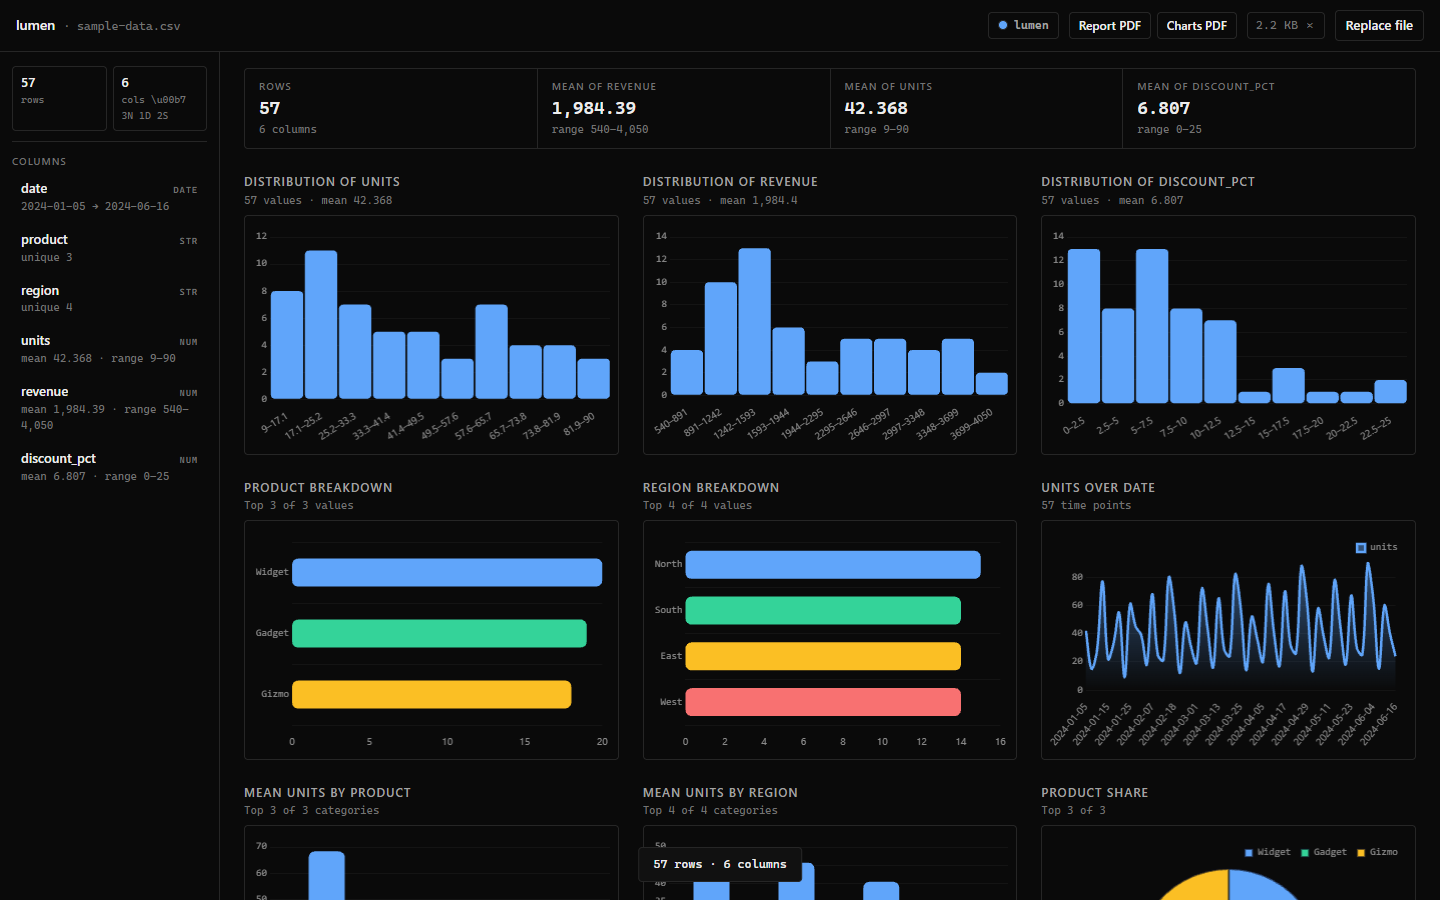
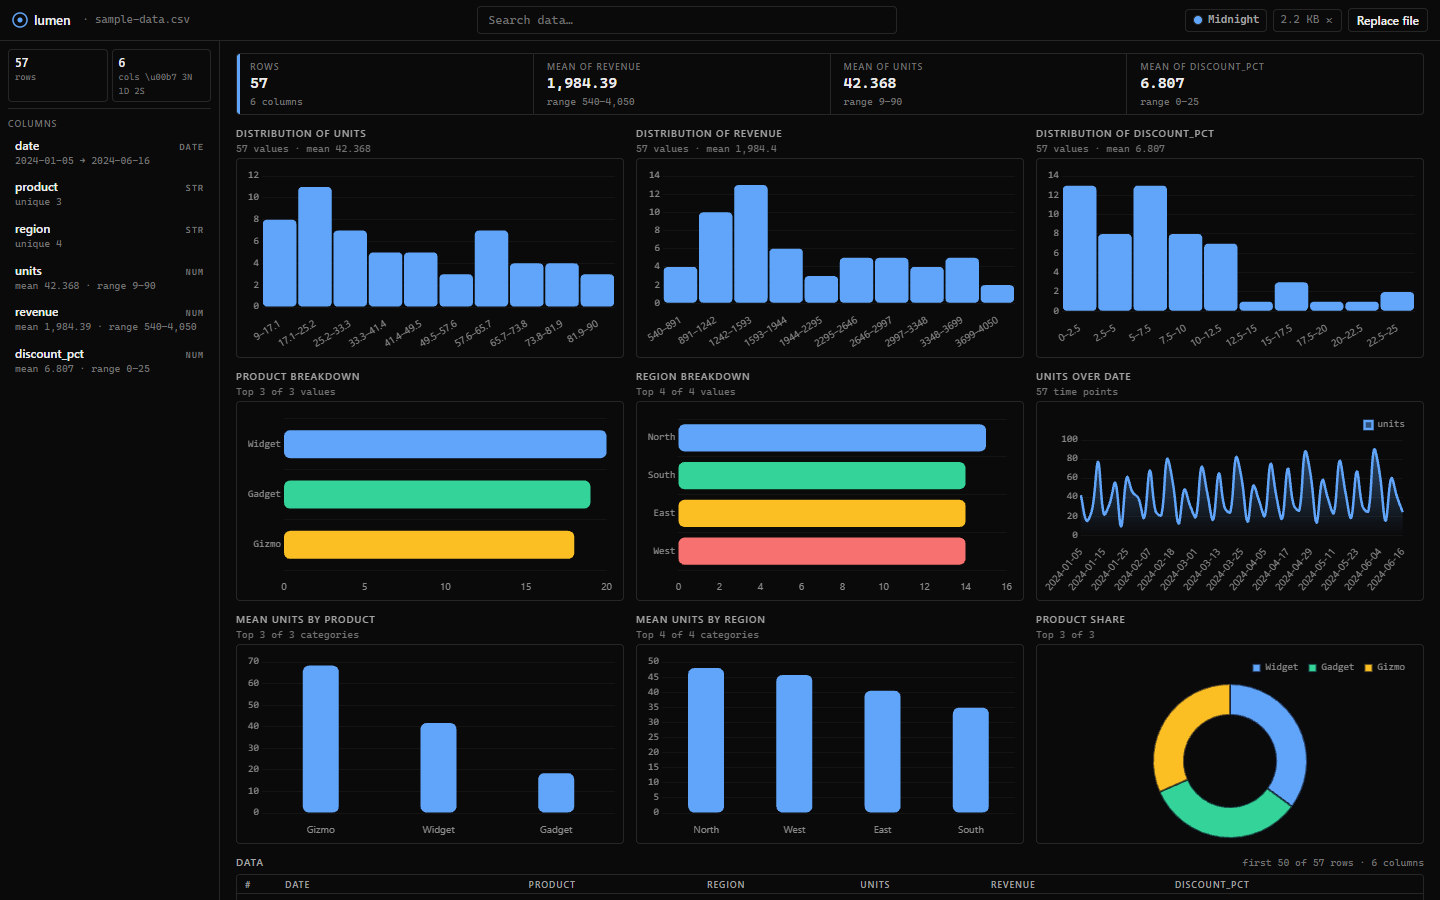
Initial commit

diff --git a/vite.config.ts b/vite.config.ts
@@ -13,12 +13,12 @@ export default defineConfig({
       registerType: 'autoUpdate',
       injectRegister: 'auto',
       manifest: {
-        name: 'Lumen — Data Dashboard',
+        name: 'Lumen — Minimal Data Dashboard',
         short_name: 'Lumen',
         description:
-          'Drop a CSV, TSV, TXT, or JSON file in and get a clean glassmorphic dashboard.',
-        theme_color: '#0b0d1a',
-        background_color: '#0b0d1a',
+          'Drop a CSV, TSV, TXT, or JSON file and explore your data with charts, search, and themes.',
+        theme_color: '#0a0a0a',
+        background_color: '#0a0a0a',
         display: 'standalone',
         orientation: 'portrait-primary',
         start_url: './',
@@ -39,16 +39,9 @@ export default defineConfig({
         ],
       },
       workbox: {
-        // The dashboard reads files from disk in the browser — there's no remote
-        // payload to precache. Cache just the app shell so the PWA launches offline.
         globPatterns: ['**/*.{js,css,html,svg,woff2}'],
         cleanupOutdatedCaches: true,
         navigateFallback: 'index.html',
-        // Without this, the SW applies the index.html fallback to every
-        // navigation request — including the `blob:` URL our PDF export uses.
-        // That silently swallows the download in Chromium (no file is saved,
-        // the click looks like a no-op). Exclude blob: URLs from the fallback.
-        navigateFallbackDenylist: [/^blob:/],
       },
     }),
   ],

diff --git a/README.md b/README.md
@@ -3,7 +3,7 @@
   <img src="public/icon.svg" alt="Lumen logo" width="80" height="80" />
 </p>
 
-<h1 align="center">Lumen — Data Dashboard</h1>
+<h1 align="center">Lumen — Minimal Data Dashboard</h1>
 
 <p align="center">
   <strong>Instant, client-side data exploration.</strong><br />
@@ -27,12 +27,10 @@
 - [Quick Start](#quick-start)
 - [Supported File Formats](#supported-file-formats)
 - [How It Works](#how-it-works)
-- [Export](#export)
 - [Theming](#theming)
 - [Deployment](#deployment)
   - [GitHub Pages](#github-pages)
   - [Desktop App (PWA)](#desktop-app-pwa)
-  - [Native Binary (Tauri)](#native-binary-tauri)
 - [Project Structure](#project-structure)
 - [Technology Stack](#technology-stack)
 - [Development](#development)
@@ -68,40 +66,21 @@ The dashboard automatically renders up to 5 histograms, 3 category breakdowns, 1
 ### Interactive Exploration
 - **Data Outline sidebar** — lists every column with its type, unique count, mean, range, and sample values.
 - **Focus Mode** — click any column to filter all charts and statistics to that column.
-- **Scrollable Data Preview** — the first 50 rows formatted as a paginated table.
-
-### Statistical Insights Engine
-A built-in, deterministic insight engine analyzes every dataset and produces factual observations, including:
-
-- Per-column summary statistics.
-- Top-5 category distributions with percentages.
-- **Pearson correlation** coefficients between numeric column pairs (reported for |r| ≥ 0.5).
-- Date-range spans and trend direction with percentage change.
-- Row-level extremes (highest and lowest values per numeric column).
-
-All insights are computed locally — no AI models, no external API calls.
-
-### Export
-Generate **PDF reports** directly from the dashboard:
-
-- **Report PDF** — a written findings document with embedded charts.
-- **Charts PDF** — a visual-only export of every rendered chart.
-
-Both outputs are generated client-side using `pdf-lib` and the Chart.js offscreen renderer. No data ever leaves your machine.
+- **Dataset Search** — search across every value in every column with instant results and highlighted matches in the data table.
+- **Fullscreen Charts** — expand any chart with the ↗ button for zoom (scroll) and pan (drag) via Chart.js zoom plugin.
+- **Scrollable Data Preview** — the first 50 rows with search match highlighting.
 
 ### Theming
-Four preset color themes plus a **custom accent picker**:
+Four preset color themes plus **Auto** and **custom accent**:
 
-- `lumen` (default) — cool blue / green / amber.
-- `graphite` — neutral grayscale.
-- `paper` — light-mode with crisp contrast.
-- `ember` — warm orange / red / yellow.
-- **Custom** — choose any accent color via a color input; the full 6-color palette is derived automatically.
+- **Midnight** (default) — dark blue / green / amber.
+- **Graphite** — muted grayscale with subtle color accents.
+- **Paper** — light-mode with crisp contrast.
+- **Ember** — warm orange / red / yellow.
+- **Auto** — follows your OS light/dark preference automatically.
+- **Custom** — choose any accent color; a full light or dark surface is derived from the accent's luminance.
 
-Theme preference is persisted in `localStorage` per browser.
-
-### Modern Glass UI
-Frosted-glass surfaces, animated gradient orbs, and Inter typography. Fully responsive across desktop and tablet viewports.
+Smooth 0.3s CSS transitions on all color changes. Theme preference persisted in `localStorage`. Keyboard shortcuts: `Ctrl+1`–`4` for presets, `Ctrl+0` for Auto.
 
 ### Progressive Web App
 Installable on desktop and mobile home screens. Works offline once the service worker caches the application shell.
@@ -160,22 +139,18 @@ Clicking any column in the sidebar enters **Focus Mode**, filtering all charts a
 
 ---
 
-## Export
-
-Click **Report PDF** or **Charts PDF** in the top bar to download.
-
-| Export        | Contents                                                                 |
-| ------------- | ------------------------------------------------------------------------ |
-| Report PDF    | Written findings (insights) followed by full-page chart figures.         |
-| Charts PDF    | One chart per page, with title, caption, and row count.                  |
-
-Both exports are generated entirely in the browser. Rendering uses an offscreen `<canvas>` element — charts are drawn, captured as PNG data URLs, and embedded into the PDF document.
-
----
-
 ## Theming
 
-Click the theme button in the top bar to open the picker. Choose from four presets or set a custom accent color. The selected theme updates all CSS custom properties and Chart.js palette colors immediately.
+Click the theme button in the top bar to open the picker. Choose from four presets, Auto (OS preference), or set a custom accent color. The selected theme updates all CSS custom properties and Chart.js palette colors immediately with a smooth 0.3s cross-fade transition.
+
+| Theme      | Shortcut | Style                     |
+| ---------- | -------- | ------------------------- |
+| Midnight   | `Ctrl+1` | Dark blue/green/amber     |
+| Graphite   | `Ctrl+2` | Muted grayscale           |
+| Paper      | `Ctrl+3` | Light & crisp             |
+| Ember      | `Ctrl+4` | Warm orange/red/yellow    |
+| Auto       | `Ctrl+0` | Follows OS preference     |
+| Custom     | —        | Accent-derived surface    |
 
 ---
 
@@ -248,8 +223,6 @@ Then add to `package.json` scripts:
 npm run tauri:build   # outputs .exe (Windows), .dmg (macOS), or .AppImage / .deb (Linux)
 ```
 
-**Alternatives:** Electron (heavier, ~150 MB) or Node SEA for a JS-based launcher.
-
 ---
 
 ## Project Structure
@@ -259,33 +232,30 @@ src/
 ├── App.tsx                    # Application shell and layout
 ├── main.tsx                   # React entry point
 ├── lib/
-│   └── chartSetup.ts          # Shared Chart.js registration and defaults
+│   └── chartSetup.ts          # Shared Chart.js registration, defaults, zoom
 ├── utils/
 │   ├── fileParser.ts          # CSV / TSV / TXT / JSON parsing
 │   ├── columnAnalyzer.ts      # Column type inference and statistics
-│   ├── insights.ts            # Deterministic statistical insight engine
-│   ├── chartRender.ts         # Offscreen Chart.js → PNG renderer
-│   ├── pdfExport.ts           # PDF generation (report + charts)
-│   ├── themes.ts              # Theme definitions and palette derivation
-│   └── useTheme.ts            # Theme state hook with localStorage persistence
+│   ├── themes.ts              # Theme definitions, palettes, surface derivation
+│   └── useTheme.tsx           # Theme context + provider + persistence
 ├── components/
 │   ├── FileUpload.tsx         # Drag-and-drop / browse input
 │   ├── DataOutline.tsx        # Column list sidebar
 │   ├── StatsCards.tsx         # Summary statistics row
-│   ├── ChartsPanel.tsx        # Chart orchestration and layout
+│   ├── ChartsPanel.tsx        # Chart orchestration + fullscreen overlay
 │   ├── HistogramChart.tsx     # Numeric distribution
 │   ├── CategoryBarChart.tsx   # Horizontal category breakdown
 │   ├── MetricBarChart.tsx     # Vertical aggregation bar chart
 │   ├── MetricLineChart.tsx    # Time-series line chart
 │   ├── MetricDoughnut.tsx     # Category share doughnut
-│   ├── DataPreview.tsx        # Paginated data table
-│   ├── ExportMenu.tsx         # PDF export controls
+│   ├── DataPreview.tsx        # Data table with search highlighting
+│   ├── SearchBar.tsx          # Topbar search with dropdown
 │   └── ThemePicker.tsx        # Theme selection popover
 └── styles/
-    └── glass.css              # Glassmorphism theme and layout
+    └── glass.css              # Theme system + compact layout
 
 public/
-└── icon.svg                   # Brand mark and PWA icon
+└── icon.svg                   # Brand mark, favicon, and PWA icon
 
 .github/workflows/
 └── deploy.yml                 # GitHub Pages auto-deploy workflow
@@ -302,12 +272,12 @@ sample-data.csv                 # 60 rows of fictional sales data
 | Build tooling   | [Vite 5](https://vitejs.dev)                                 |
 | UI framework    | [React 18](https://react.dev) + [TypeScript 5](https://www.typescriptlang.org/) |
 | Charts          | [Chart.js 4](https://www.chartjs.org) via [react-chartjs-2](https://react-chartjs-2.js.org/) |
+| Chart zoom      | [chartjs-plugin-zoom](https://www.chartjs.org/chartjs-plugin-zoom/) |
 | File parsing    | [PapaParse 5](https://www.papaparse.com)                     |
 | Drag-and-drop   | [react-dropzone 14](https://react-dropzone.js.org)           |
-| PDF generation  | [pdf-lib](https://pdf-lib.js.org)                            |
 | PWA support     | [vite-plugin-pwa](https://vite-pwa-org.netlify.app)          |
 | Typography      | [Inter](https://rsms.me/inter/) via Google Fonts             |
-| Styling         | Custom CSS (glassmorphism) — no framework dependency         |
+| Styling         | Custom CSS — no framework dependency                         |
 
 No CSS framework, no UI kit, no external state management library.
 
